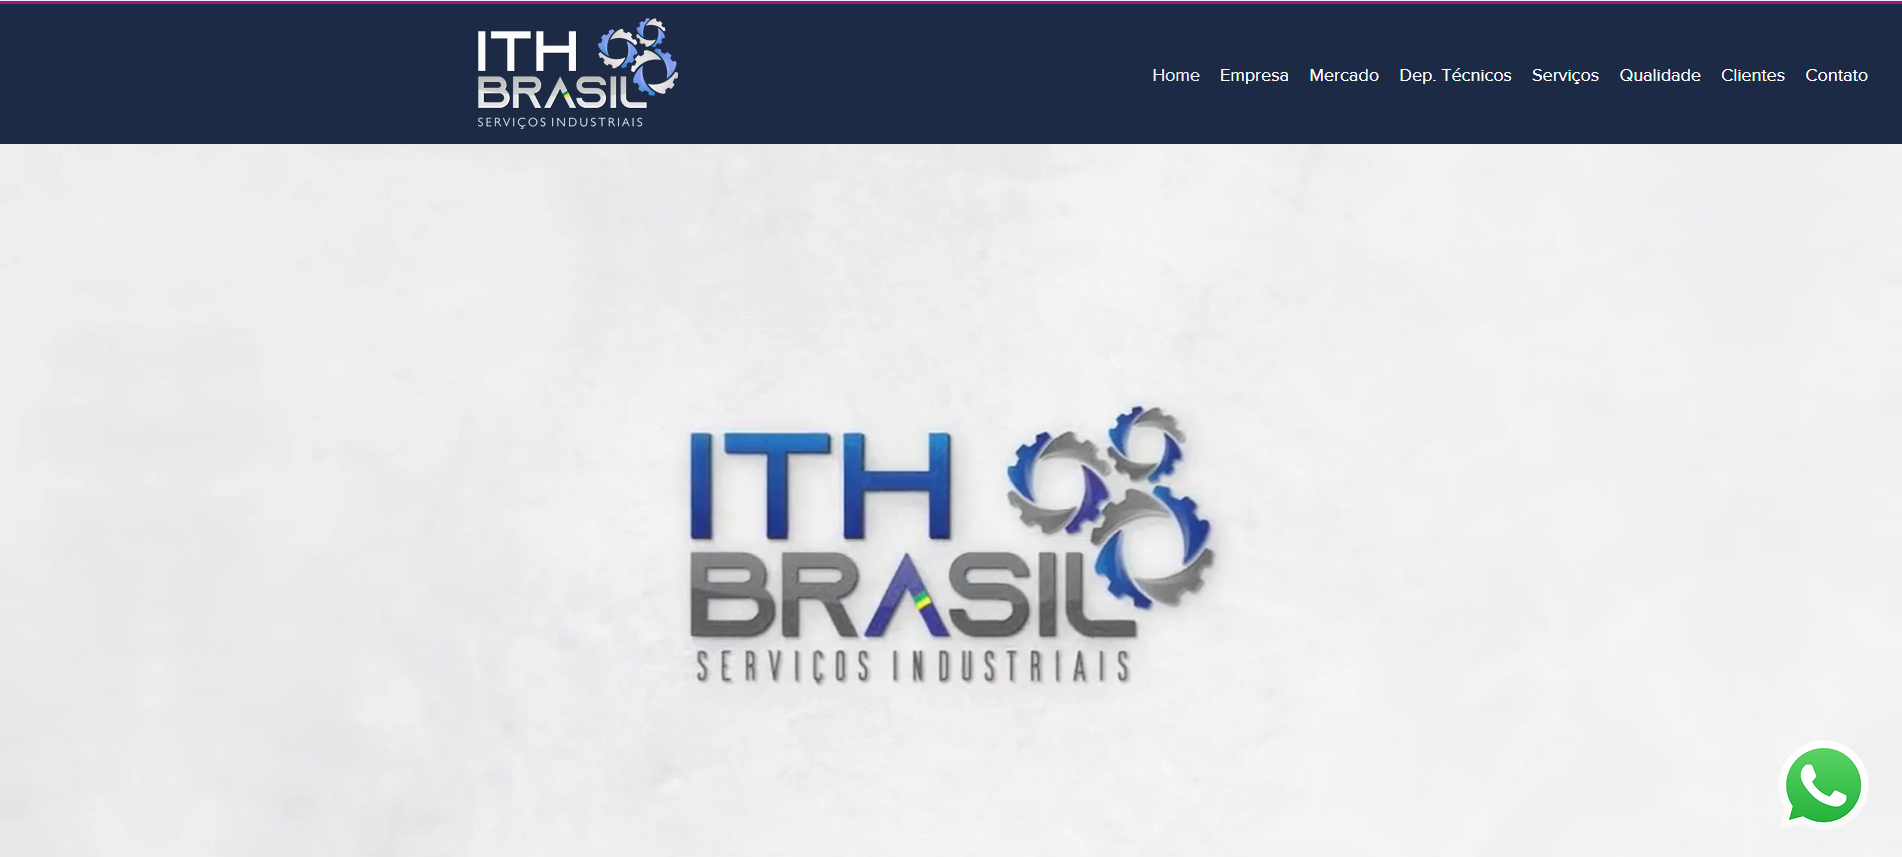
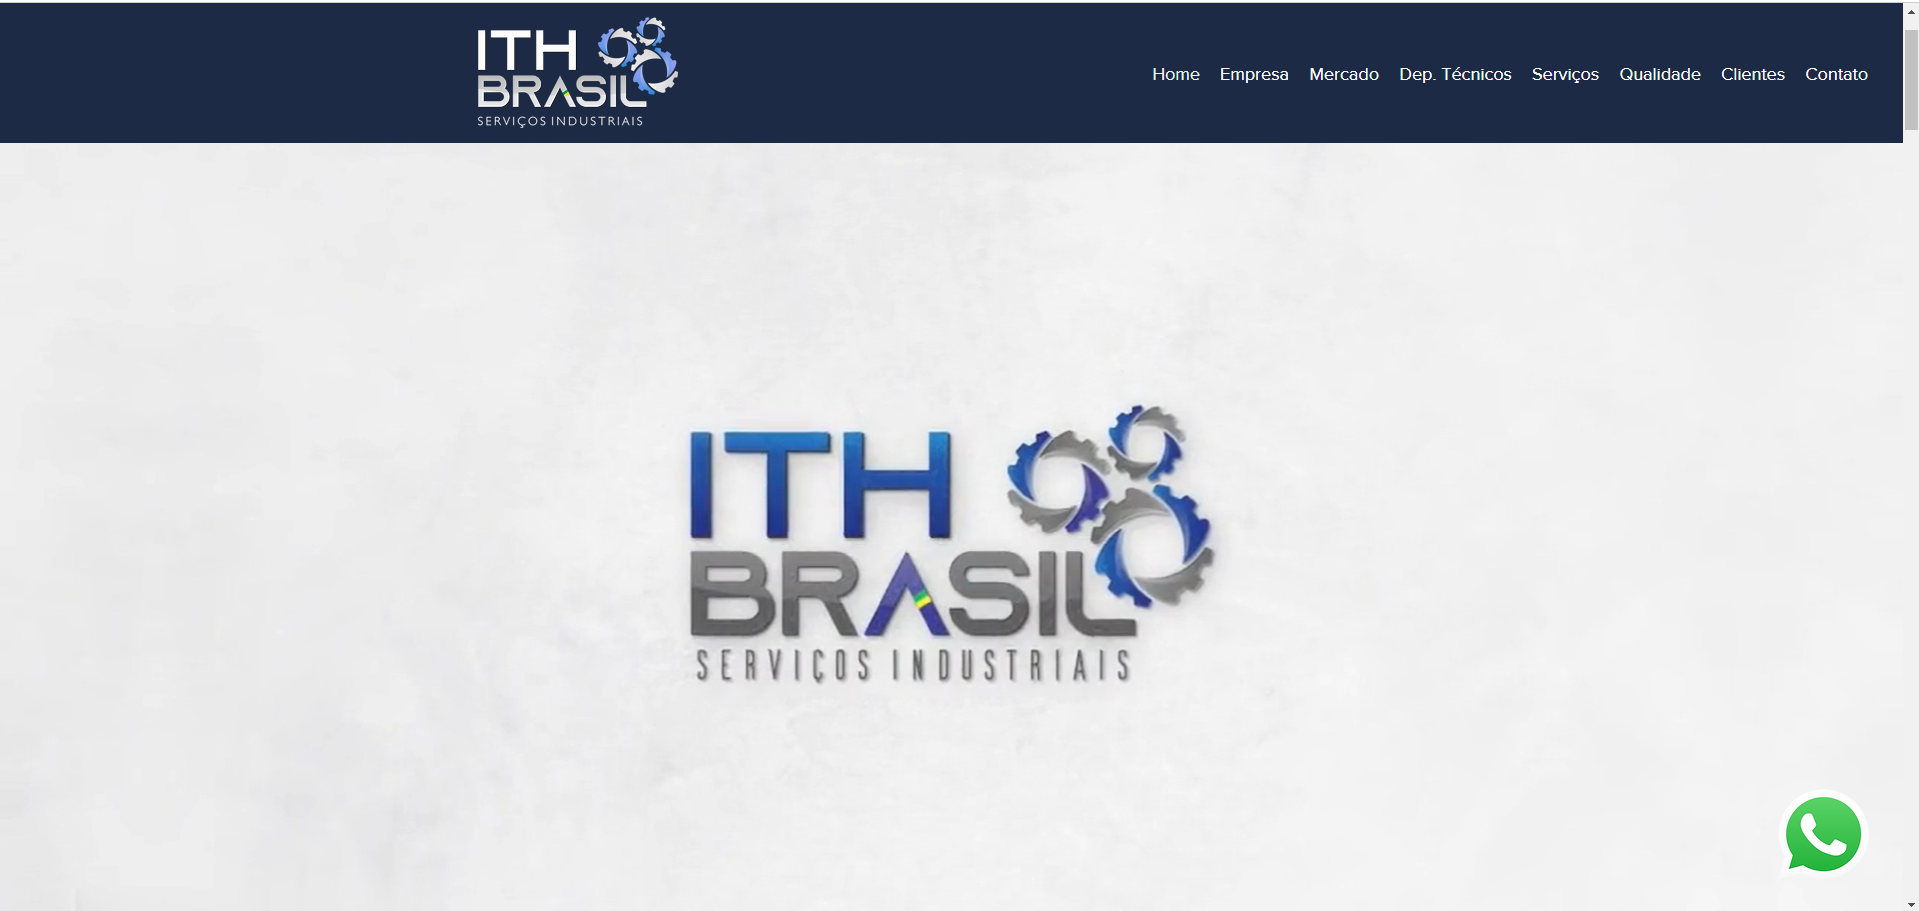
working

Changed region(s): [[0.3412, 0.4247, 0.6514, 0.8191], [0.0, 0.0, 1.0, 0.182], [0.9306, 0.8798, 0.9926, 0.9708]]

diff --git a/portfolio.html b/portfolio.html
@@ -3,6 +3,8 @@
 <head>
     <meta charset="UTF-8">
     <meta name="viewport" content="width=device-width, initial-scale=1.0">
+    <link href="https://cdn.jsdelivr.net/npm/bootstrap@5.3.3/dist/css/bootstrap.min.css" rel="stylesheet"
+        integrity="sha384-QWTKZyjpPEjISv5WaRU9OFeRpok6YctnYmDr5pNlyT2bRjXh0JMhjY6hW+ALEwIH" crossorigin="anonymous">
     <link rel="stylesheet" type="text/css" href="main.css">
     <title>Portfolio</title>
 </head>
@@ -22,5 +24,65 @@
             <a href="index.html"><img src="images/logo.png"  alt="logo"></a>
         </div>
     </nav>
+    <br>
+    <h2>Portfolio</h2>
+    <br>
+    <h3>Websites</h3>
+    <br>
+    <div id="carouselExampleIndicators" class="carousel slide">
+        <div class="carousel-indicators">
+          <button type="button" data-bs-target="#carouselExampleIndicators" data-bs-slide-to="0" class="active" aria-current="true" aria-label="Slide 1"></button>
+          <button type="button" data-bs-target="#carouselExampleIndicators" data-bs-slide-to="1" aria-label="Slide 2"></button>
+          <button type="button" data-bs-target="#carouselExampleIndicators" data-bs-slide-to="2" aria-label="Slide 3"></button>
+        </div>
+        <div class="carousel-inner">
+          <div class="carousel-item active">
+            <img src="images/cardiomed.png" class="d-block w-100" alt="...">
+          </div>
+          <div class="carousel-item">
+            <img src="images/builders.png" class="d-block w-100" alt="...">
+          </div>
+          <div class="carousel-item">
+            <img src="images/ith brasil.png" class="d-block w-100" alt="...">
+          </div>
+        </div>
+        <button class="carousel-control-prev" type="button" data-bs-target="#carouselExampleIndicators" data-bs-slide="prev">
+          <span class="carousel-control-prev-icon" aria-hidden="true"></span>
+          <span class="visually-hidden">Previous</span>
+        </button>
+        <button class="carousel-control-next" type="button" data-bs-target="#carouselExampleIndicators" data-bs-slide="next">
+          <span class="carousel-control-next-icon" aria-hidden="true"></span>
+          <span class="visually-hidden">Next</span>
+        </button>
+      </div>
+    <!-- <div class="sitesimg">
+        <img src="images/builders.png" alt="Builders Site">
+        <img src="images/cardiomed.png" alt="Cardiomed Site">
+        <img src="images/ith brasil.png" alt="ITH Brasil Site">
+    </div> -->
+    <br>
+    <br>
+    <h3>Videos</h3>
+    <br>
+    <img src="images/interview.jpeg" alt="interview">
+    <img src="images/morning.jpeg" alt="Morning Class">
+    <br>
+    <br>
+    <h3>Photos</h3>
+    <br>
+    <img src="images/LimaL3.png" alt="photo">
+        <img src="images/LimaL4.png" alt="photo">
+        <img src="images/LimaL6.png" alt="photo">
+    <br>
+    <br>
+    <h3>Logos</h3>
+    <br>
+    <img src="images/mcneely.png" alt="mcneely logo">
+    <img src="images/entoar.png" alt="entoar logo">
+    <img src="images/flux.png" alt="fluxcenter logo">
+    <img src="images/idmmn.png" alt="idmmn logo">
+    <br>
+    <br>
+    <br>
 </body>
 </html>

diff --git a/main.css b/main.css
@@ -10,18 +10,14 @@
 .bg-img {
  
     background-image: url('images/bgnav.jpg');
-    min-height: 100px;
-
-   
+    min-height: 100px; 
     background-position: center;
     background-repeat: no-repeat;
     background-size: cover;
-
-    /* Needed to position the navbar */
     position: relative;
 }
 
-/* Position the navbar container inside the image */
+
 .container {
     position: absolute;
     margin: 20px;
@@ -33,6 +29,8 @@
 .topnav {
     overflow: hidden;
     float: right; 
+    margin: 0;
+    padding-right: 150px;
 }
 
 /* Navbar links */
@@ -40,8 +38,7 @@
     float: left;
     color: white;
     text-align: center;
-    padding: 14px 16px;
-    padding-right: 200px;
+    padding: 14px 20px;
     text-decoration: none;
     font-size: 25px;
     font-family: 'Franklin Gothic Medium', 'Arial Narrow', Arial, sans-serif;
@@ -59,20 +56,96 @@ h1{
     font-size: 50px;
     font-family: 'Franklin Gothic Medium', 'Arial Narrow', Arial, sans-serif;
     text-align: left;
+   
+}
+h2{
+    color: black;
+    font-size: 50px;
+    font-family: 'Franklin Gothic Medium', 'Arial Narrow', Arial, sans-serif;
+    text-align: left;
     margin-left: 60px;
+}
+h3{
+    color: black;
+    font-size: 30px;
+    font-family: 'Franklin Gothic Medium', 'Arial Narrow', Arial, sans-serif;
+    text-align: left;
+    margin-left: 60px; 
 }
 .designer {
-    display: flex;
-    justify-content: space-between;
-    align-items: center;
-    width: 20%;
-    margin: 20px auto;
+    width: 700px;
+    padding-left: 150px;
+    
 }
-
+/* Botton */
 .btn btn-primary btn-lg {
-    margin-left: 60px;
+    
 }
 .fpage {
     background-color: black;
     color: white;
 }
+
+.myphoto{
+    position: relative;
+    max-height: 300px;
+   
+}
+
+.paragraph{
+    align-items: center;
+    padding-left: 100px;
+    max-width: 700px;
+}
+ 
+.title1{
+    width: 600px;
+}
+.section1 {
+    display: flex;
+    align-content: stretch;
+    align-items: center;
+    flex-direction: row;
+    flex-wrap: nowrap;
+    justify-content: center;
+    padding-top: 100px;
+}
+
+.section2 {
+    display: flex;
+    align-content: stretch;
+    align-items: center;
+    flex-direction: column;
+    flex-wrap: nowrap;
+    justify-content: flex-start;
+    padding-bottom: 400px;
+}
+.path {
+    margin: 200px;
+}
+
+.btn-contact {
+    margin-top: 40px;
+}
+.sectionabout {
+    display: flex;
+    align-content: stretch;
+    align-items: center;
+    flex-direction: row;
+    flex-wrap: nowrap;
+    justify-content: center;
+    padding-top: 50px;
+}
+
+/* PORTFOLIO PAGE*/
+
+.sitesimg{
+    display: flex;
+    align-content: stretch;
+    align-items: center;
+    flex-direction: row;
+    flex-wrap: nowrap;
+    justify-content: center;
+    padding-top: 100px;
+}
+

diff --git a/index.html b/index.html
@@ -6,7 +6,9 @@
     <meta name="viewport" content="width=device-width, initial-scale=1.0">
     <link href="https://cdn.jsdelivr.net/npm/bootstrap@5.3.3/dist/css/bootstrap.min.css" rel="stylesheet"
         integrity="sha384-QWTKZyjpPEjISv5WaRU9OFeRpok6YctnYmDr5pNlyT2bRjXh0JMhjY6hW+ALEwIH" crossorigin="anonymous">
-    <link rel="stylesheet" type="text/css" href="main.css">
+        <link rel="stylesheet" href="https://cdnjs.cloudflare.com/ajax/libs/animate.css/4.1.1/animate.min.css"/>
+        <link rel="stylesheet" type="text/css" href="main.css">
+    
     <title>Portfolio</title>
 </head>
 
@@ -23,23 +25,29 @@
             </div>
         </div>
         <div class="logo">
-            <a href="index.html"><img src="images/logo.png"  alt="logo"></a>
+            <a href="index.html"><img src="images/logo.png" alt="logo"></a>
         </div>
     </nav>
-
-    <h1>Welcome to a space where <br> you will find a little of my <br> life and work</h1>
-    <button type="button" class="btn btn-primary btn-lg">More about me</button>
-
-    <img class="designer" src="images/webdev.png" alt="designer">
-    <img class="path" src="images/path.png" alt="path">
-    <h1>Lets work together on your <br> next web project or logo</h1>
-    <button type="button" class="btn btn-primary btn-lg">Contact me</button>
+    <div class="section1">
+        <div class="title1">
+            <h1 class="animate__animated animate__slideInLeft">Welcome to a space where you will find a little of my life and work</h1>
+            <a href="about.html" class="animate__animated animate__slideInLeft btn btn-primary btn-lg">More about me</a>
+        </div>
+        
+            <img class="animate__animated animate__slideInRight designer" src="images/webdev.png" alt="designer">
+        
+    </div>
+    <div class="section2">
+        <img class="path" src="images/path.png" alt="path">
+        <h1 class="animate__animated animate__fadeInUp">Lets work together on your <br> next web project or logo</h1>
+        <a href="contact.html" class="btn btn-primary btn-lg btn-contact">Contact me</a>
+    </div>
     <footer>
         <div class="fpage">
-            <p>Copyright© Leandro Lima</p>
-
-        </div>
-    </footer>
-</body>
-
+            <br>
+            <p class="copyright">Copyright© Leandro Lima</p>
+            <br>
+           </div> 
+</footer> 
+</body> 
 </html>

diff --git a/about.html b/about.html
@@ -1,11 +1,16 @@
 <!DOCTYPE html>
 <html lang="en">
+
 <head>
     <meta charset="UTF-8">
     <meta name="viewport" content="width=device-width, initial-scale=1.0">
-    <link rel="stylesheet" type="text/css" href="main.css">
+    <link href="https://cdn.jsdelivr.net/npm/bootstrap@5.3.3/dist/css/bootstrap.min.css" rel="stylesheet"
+        integrity="sha384-QWTKZyjpPEjISv5WaRU9OFeRpok6YctnYmDr5pNlyT2bRjXh0JMhjY6hW+ALEwIH" crossorigin="anonymous">
+        <link rel="stylesheet" href="https://cdnjs.cloudflare.com/ajax/libs/animate.css/4.1.1/animate.min.css"/>
+        <link rel="stylesheet" type="text/css" href="main.css">
     <title>About</title>
 </head>
+
 <body>
     <nav>
         <div class="bg-img">
@@ -19,8 +24,30 @@
             </div>
         </div>
         <div class="logo">
-            <a href="index.html"><img src="images/logo.png"  alt="logo"></a>
+            <a href="index.html"><img src="images/logo.png" alt="logo"></a>
         </div>
     </nav>
+    <br>
+    <h2>About me</h2>
+    <div class="animate__animated animate__fadeInUp sectionabout">
+        <img class="myphoto" src="images/me.png" alt="Leandro">
+        <div class="paragraph">
+            <p>I enjoy playing the drums, and my musical taste spans from jazz to rock.
+            In 2020, I decided to face my greatest challenge: moving to Canada.</p>
+            
+            <p>People around me often say I possess a contagious friendliness, an
+            enthusiast for family ties, and laid-back gatherings with friends.</p>
+            
+           
+            <p>Despite missing family and friends, this journey of self-discovery has been
+            enriching.</p>
+           
+            <p>Studying in a country far from my origin not only fulfills a dream but also
+            allows me to immerse myself in new experiences, expanding horizons
+            and building friendships that transcend geographical borders.</p>
+            </div>
+    </div>
+
 </body>
+
 </html>

diff --git a/contact.html b/contact.html
@@ -3,6 +3,8 @@
 <head>
     <meta charset="UTF-8">
     <meta name="viewport" content="width=device-width, initial-scale=1.0">
+    <link href="https://cdn.jsdelivr.net/npm/bootstrap@5.3.3/dist/css/bootstrap.min.css" rel="stylesheet"
+        integrity="sha384-QWTKZyjpPEjISv5WaRU9OFeRpok6YctnYmDr5pNlyT2bRjXh0JMhjY6hW+ALEwIH" crossorigin="anonymous">
     <link rel="stylesheet" type="text/css" href="main.css">
     <title>Contact</title>
 </head>
